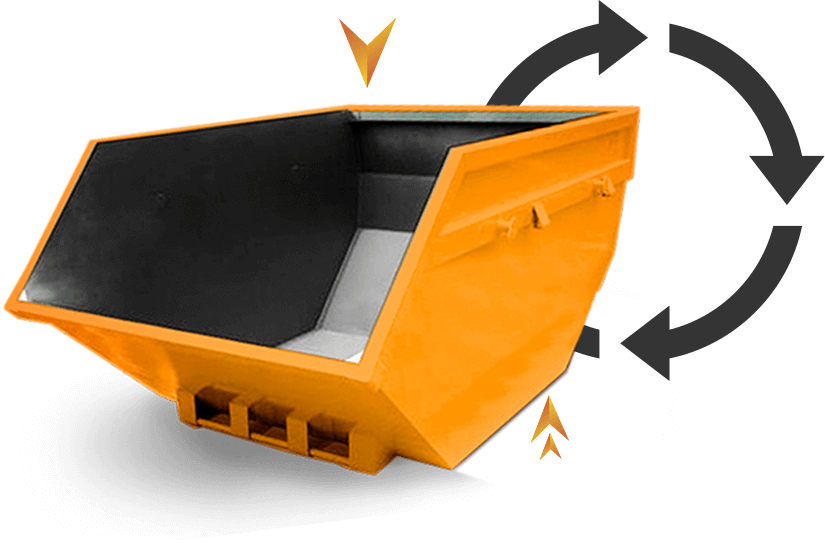
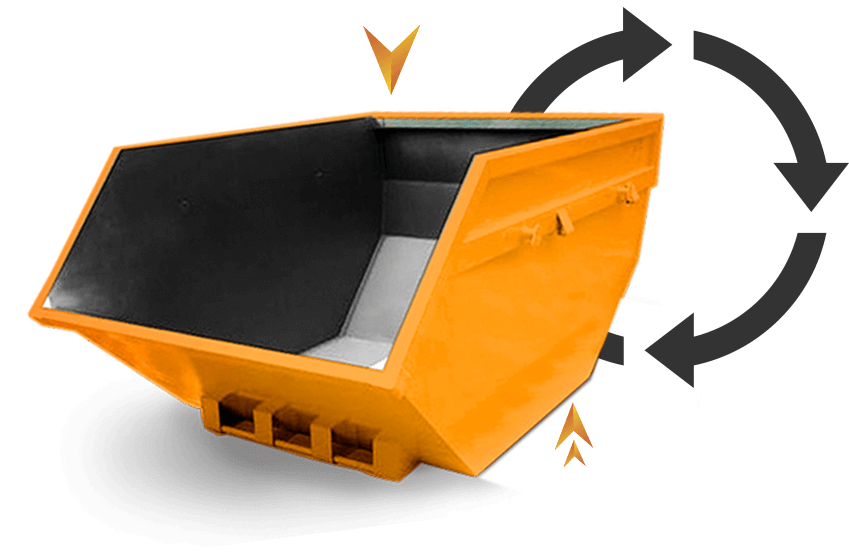
adjusted content images and service modal

diff --git a/pages/index.vue b/pages/index.vue
@@ -15,7 +15,11 @@
           <b-col class="content-center" v-lazy-container="{ selector: 'img' }">
             <img
               v-if="state.showResponsiveImg"
-              :data-src="require('~/assets/img/index/cacamba.png?webp')"
+              :data-srcSet="require('~/assets/img/index/cacamba.png').srcSet"
+              :data-src="require('~/assets/img/index/cacamba.png')"
+              :data-loading="
+                require('~/assets/img/index/cacamba.png').placeholder
+              "
               alt="Caçamba"
             />
           </b-col>
@@ -191,7 +195,7 @@ export default {
 <style lang="scss" scoped>
 .page-main-content.--index {
   @media (min-width: 768px) {
-    background-image: url("~assets/img/index/main-content-background.jpg");
+    background-image: url("~assets/img/index/background.svg");
     background-repeat: no-repeat;
     background-position-x: right;
     background-size: contain;

diff --git a/pages/quemsomos/_keyword/index.vue b/pages/quemsomos/_keyword/index.vue
@@ -156,11 +156,6 @@ export default {
       pageDescription: ""
     };
   },
-  computed: {
-    contentImgSizesSet() {
-      return require(`~/assets/img/quemsomos/capacete.png`);
-    }
-  },
 
   /*
    ** Headers of the page
@@ -192,7 +187,7 @@ export default {
 <style lang="scss" scoped>
 .page-main-content.--quemsomos {
   @media (min-width: 768px) {
-    background-image: url("~assets/img/quemsomos/main-content-background.jpg");
+    background-image: url("~assets/img/quemsomos/background.svg");
     background-repeat: no-repeat;
     background-position-x: right;
     background-size: contain;

diff --git a/components/ServiceModal.vue b/components/ServiceModal.vue
@@ -112,8 +112,10 @@ export default {
 }
 .service-content-wrapper {
   flex-direction: column-reverse;
+  padding: 0 15px;
 
   @media (min-width: 601px) {
+    padding: 0;
     border: solid $dark-title;
     border-radius: 3px;
   }
@@ -195,6 +197,11 @@ export default {
 }
 .modal-content {
   background: $dark-background;
+  @media (max-width: 600px) {
+    height: 100vh;
+    width: auto;
+    margin-left: -15px;
+  }
 
   .modal-body {
     padding: 0;

diff --git a/nuxt.config.js b/nuxt.config.js
@@ -20,7 +20,7 @@ export default {
   },
 
   router: {
-    base: '/'
+    base: '/site/'
   },
   /*
   ** Customize the progress-bar color
